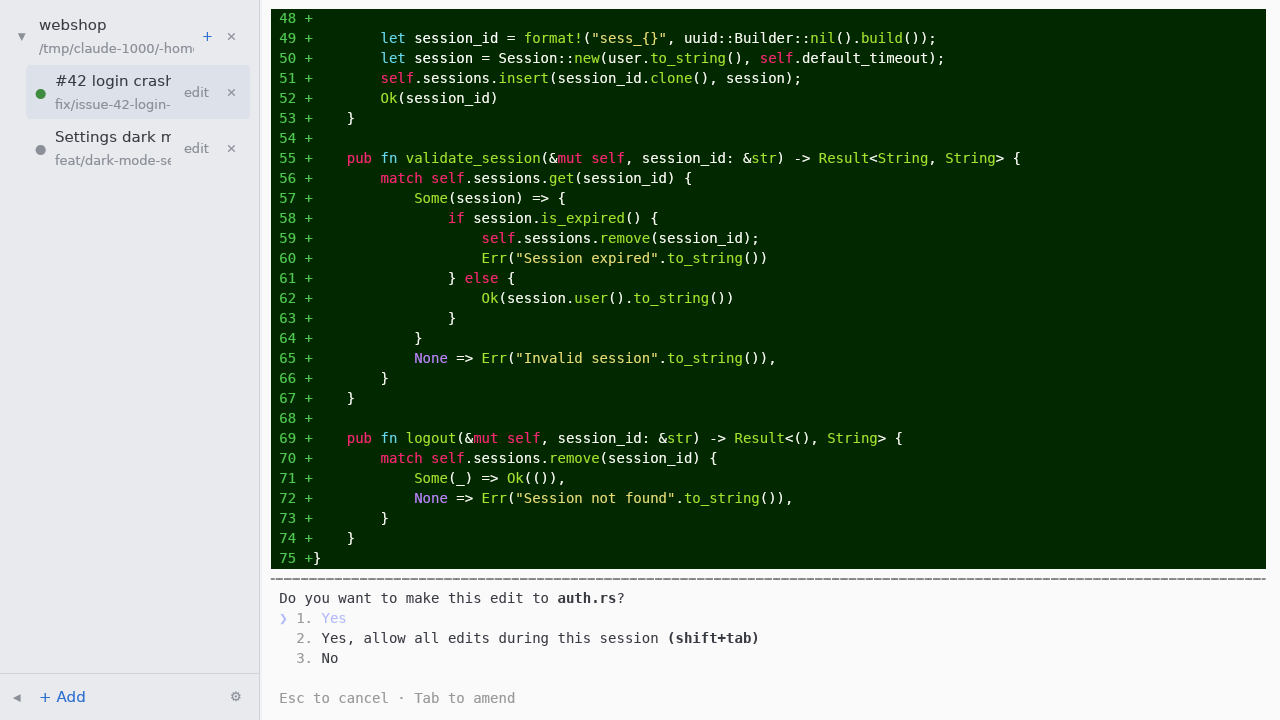
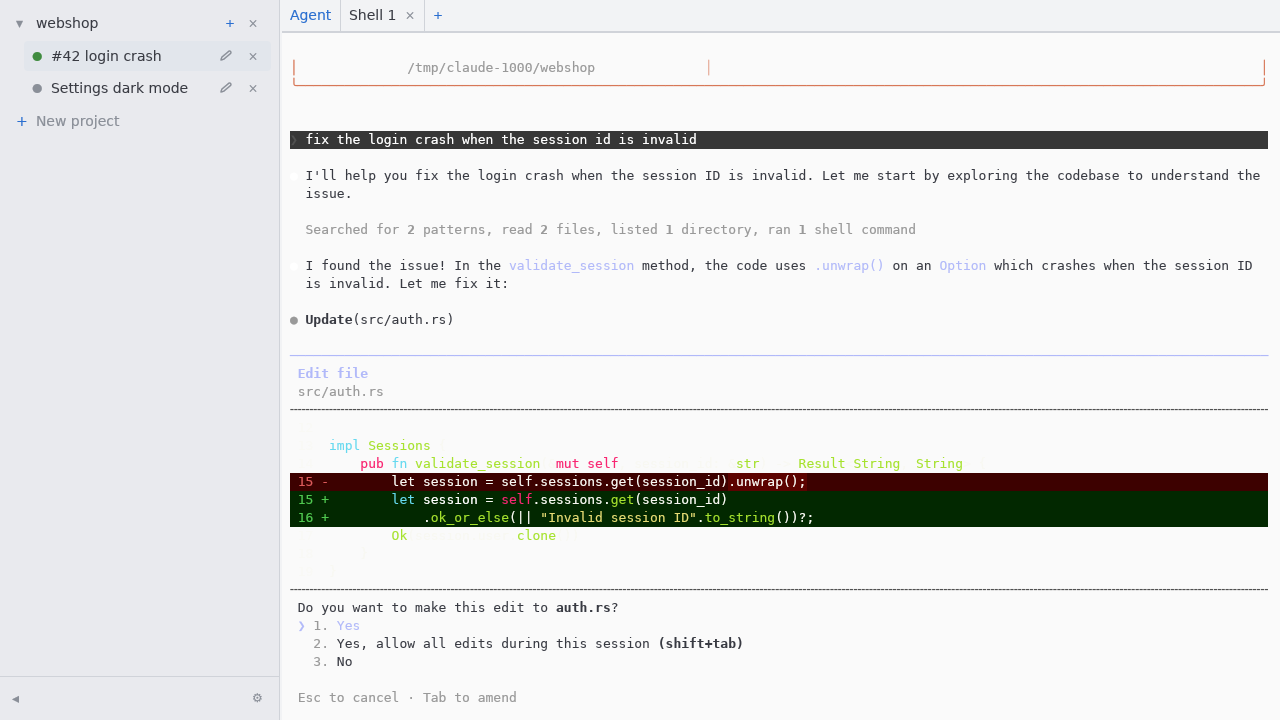
docs: update README and screenshot for tab view, lazy restore, sidebar changes
- right pane documented as the tab view (Agent tab + persisted shell
  tabs with replayed scrollback)
- New project row replaces the removed bottom-bar Add button; sidebar
  rows no longer show the branch
- lazy per-agent restore described; HARMONIUM_PLANNER_MODEL added to
  the env-var table; fixed auto-scroll limitation removed
- screenshot regenerated against the current UI (headless sway)

diff --git a/README.md b/README.md
@@ -12,18 +12,22 @@ and interact with each agent through an embedded terminal.
 
 ## How it works
 
-- **Left sidebar** — list of projects; each project expands to its agents
-  (name + branch). A project is simply a path to a directory containing a
-  git repository. The agent name is LLM-generated from the task — for work
-  on an existing PR it has the form `#<PR number> <short description>`
-  (open PRs are fed to the planner via `gh pr list` when available) — and
-  can be edited inline via the row's *edit* button or by double-clicking
-  the row. Projects are added via the system directory picker (`+ Add` in
-  the sidebar's bottom bar). The sidebar is collapsible (the `◂`/`▸`
-  buttons, also in the bottom bar) and its width can be adjusted by
-  dragging the divider; both persist.
-- **Right pane** — the selected agent's terminal (a real PTY running
-  claude-code), filling the pane.
+- **Left sidebar** — list of projects; each project expands to its agents.
+  A project is simply a path to a directory containing a git repository.
+  The agent name is LLM-generated from the task — for work on an existing
+  PR it has the form `#<PR number> <short description>` (open PRs are fed
+  to the planner via `gh pr list` when available) — and can be edited
+  inline via the row's pencil button or by double-clicking the row.
+  Projects are added via the *New project* row at the end of the list,
+  which opens the system directory picker. The sidebar is collapsible
+  (the `◂`/`▸` buttons in the bottom bar, next to the settings gear) and
+  its width can be adjusted by dragging the divider; both persist.
+- **Right pane** — the selected agent as a tab view. The first tab
+  (*Agent*) is the agent session itself (a real PTY running claude-code);
+  the `+` button opens additional plain shell tabs in the agent's workdir.
+  Shell tabs persist: on restart the same tabs come back as fresh shells
+  with their previous scrollback (colors included) replayed above the new
+  prompt, so earlier output stays scrollable and selectable.
 - **Settings** — the gear button in the sidebar's bottom bar opens the
   settings dialog: base font size (UI and terminal scale together), the
   theme (light by default, dark available — covers the UI and the
@@ -55,9 +59,12 @@ and interact with each agent through an embedded terminal.
   can retry.
 
 Worktrees live under `~/.local/share/harmonium/worktrees/<repo>-<hash>/<branch>`;
-projects/agents persist in `~/.local/share/harmonium/state.json`. Agents without
-a live terminal (e.g. after restarting harmonium) offer a *Resume session*
-button that runs `claude --continue` in the agent's workdir.
+projects/agents persist in `~/.local/share/harmonium/state.json`. After
+restarting harmonium, an agent's terminals are restored lazily the first
+time it is selected: the agent session restarts with its preset's resume
+command in its workdir, and its shell tabs respawn with their saved
+scrollback. If a session exits or fails to spawn, a *Resume session*
+button restarts it.
 
 ## Keyboard & mouse
 
@@ -79,6 +86,7 @@ button that runs `claude --continue` in the agent's workdir.
 | --- | --- | --- |
 | `HARMONIUM_AGENT_BIN` | – | Overrides the preset command entirely (testing) |
 | `HARMONIUM_PLANNER_CMD` | `claude -p --model haiku` | Planner command line; the planning prompt is appended as the last argument. Haiku is the default because planning is a tiny classification task — a `claude -p` call boots a full Claude Code session (~15–19K tokens of scaffolding), which costs ~$0.14 on a premium model but ~$0.003 on haiku with a warm prompt cache. |
+| `HARMONIUM_PLANNER_MODEL` | `haiku` | Sets just the planner's `--model`, keeping the default `claude -p` command. Mutually exclusive with `HARMONIUM_PLANNER_CMD` — setting both is an error. |
 | `HARMONIUM_DATA_DIR` | `~/.local/share/harmonium` | State + worktrees |
 | `HARMONIUM_TERMINAL_FONT` | `DejaVu Sans Mono` | Terminal font family |
 | `HARMONIUM_UI_FONT` | `DejaVu Sans` | UI font family |
@@ -204,6 +212,6 @@ src/
     view.rs        focusable view routing keys/scroll to the PTY
 ```
 
-Known limitations (v1): removing an agent leaves its worktree on disk,
-terminal selection does not auto-scroll past the viewport edge, the agent
-description is stored but not editable in the UI (only the name is).
+Known limitations (v1): removing an agent leaves its worktree on disk, and
+the agent description is stored but not editable in the UI (only the name
+is).
